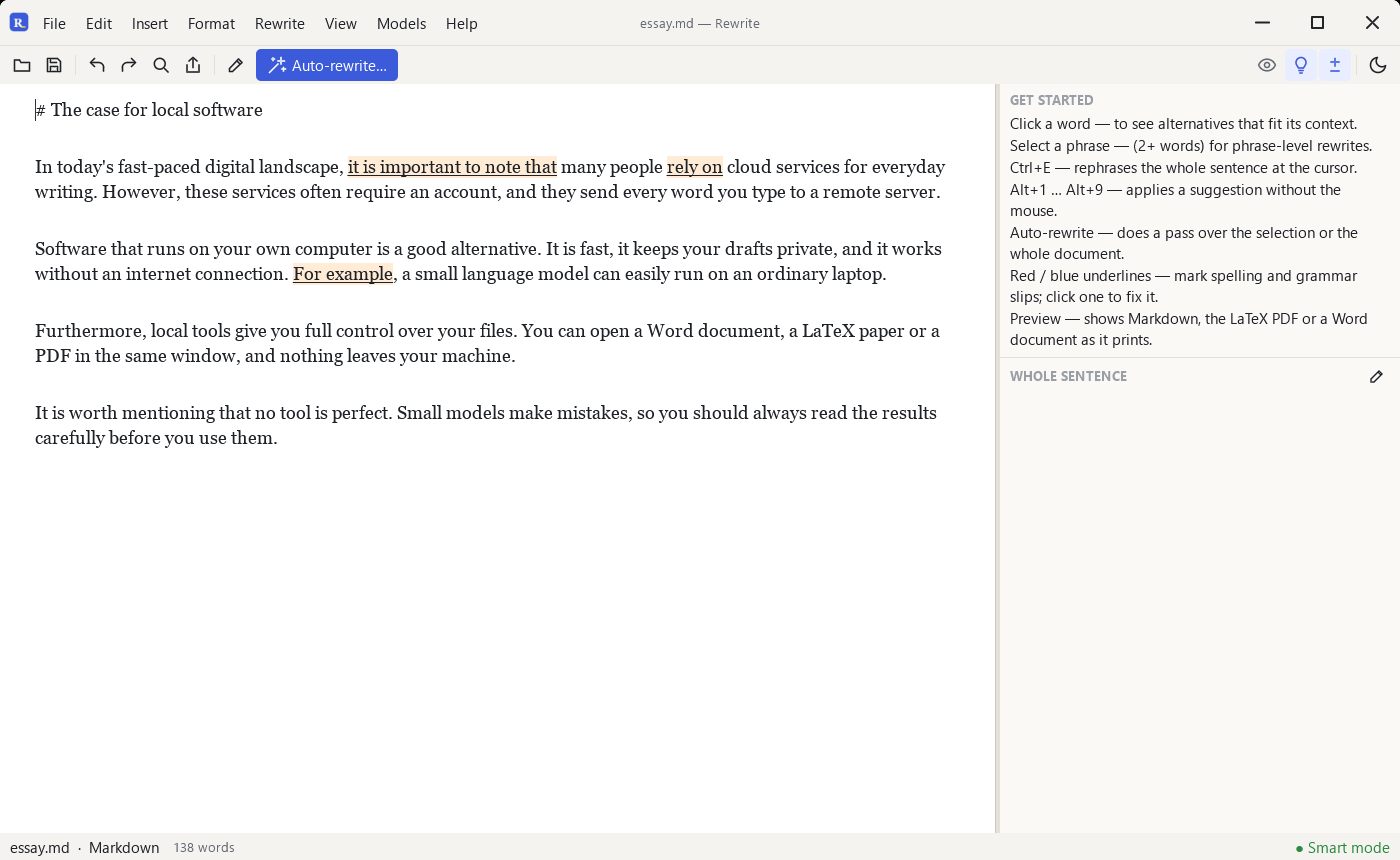
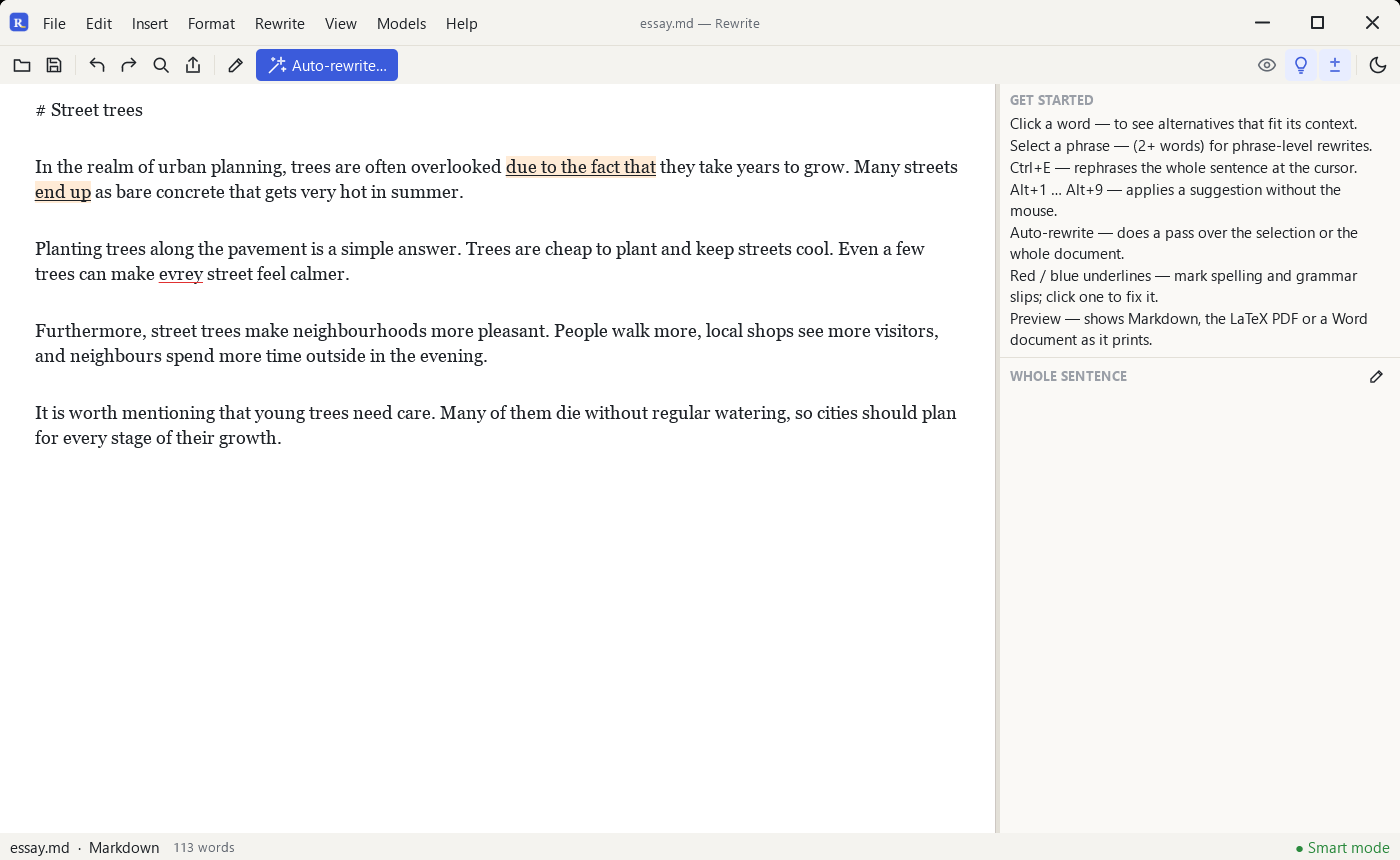
Website: new sample text in the screenshots and the editor example
The screenshots, the social image and the interactive example now use a short
piece about street trees, with every suggestion taken from the app.

diff --git a/site/site.js b/site/site.js
@@ -106,28 +106,29 @@ async function renderDownloads() {
   list.innerHTML = `<div class="hdr"><span></span><span>File</span><span>System</span><span style="text-align:right">Size</span><span></span></div>` + rows.join("");
 }
 
-// -- the editor example: every suggestion below is real output from Rewrite 2.0.1 ---------------------------
+// -- the editor example: every suggestion below is real output from Rewrite 2.0.1 (the auto-rewrite of this text
+// with the spelling slip fixed, Medium strength, all three kinds of change) ---------------------------------------
 
 const DOC = [
-  ["In today's fast-paced digital landscape, ", { k: "wordy", id: "p1", t: "it is important to note that" }, " many people rely on cloud services for everyday writing."],
-  [{ k: "sent", id: "s2", t: ["It is ", { k: "word", id: "w1", t: "fast" }, ", it keeps your drafts private, and it works without an internet connection."] },
-    " Even good tools make mistakes, so read ", { k: "spell", id: "sp", t: "evrey" }, " result carefully."],
+  ["In the realm of urban planning, trees are often overlooked ", { k: "wordy", id: "p1", t: "due to the fact that" }, " they take years to grow."],
+  [{ k: "sent", id: "s2", t: ["Trees are ", { k: "word", id: "w1", t: "cheap" }, " to plant and keep streets cool."] },
+    " Even a few trees can make ", { k: "spell", id: "sp", t: "evrey" }, " street feel calmer."],
 ];
 const SUG = {
-  p1: { head: "Or reword the whole phrase", what: "it is important to note that", alts: [["note that", 92, "phrase", "meaning 99%"], ["it is crucial to note that", 85, "synonym"], ["it is critical to note that", 85, "synonym", "meaning 100%"]] },
-  w1: { head: "Alternatives for", what: "fast", alts: [["quick", 80, "synonym", "hurried and brief"], ["speedy", 70, "related", "acting or moving quickly"], ["rapid", 40, "related"], ["quicker", 30, "synonym"]] },
-  sp: { head: "Spelling", what: "evrey", alts: [["every", 95, "spelling"]] },
+  p1: { head: "Or reword the whole phrase", what: "due to the fact that", alts: [["because", 94, "phrase", "meaning 97%"], ["as", 11, "phrase", "meaning 98%"]] },
+  w1: { head: "Alternatives for", what: "cheap", alts: [["inexpensive", 83, "synonym", "relatively low in price or charging low prices"], ["affordable", 43, "related"], ["low-cost", 29, "related"]] },
+  sp: { head: "Spelling", what: "evrey", alts: [["every", 77, "spelling"], ["even", 29, "spelling"], ["ever", 14, "spelling"]] },
   s2: { head: "Whole sentence", what: "", cards: [
-    ["Despite being offline and speedy, it ensures your drafts are confidential.", "meaning 93% · 73% reworded"],
-    ["It is speedy, it ensures your drafts are confidential, and operates offline.", "meaning 95% · 50% reworded"],
-    ["The service is speedy, safeguarding your drafts and operates offline.", "meaning 90% · 60% reworded"]] },
+    ["Planting trees is a cost-effective solution for keeping the streets cool.", "meaning 97% · 73% reworded"],
+    ["Trees are a cost-effective solution for keeping the streets cool.", "meaning 98% · 60% reworded"],
+    ["The cost of planting trees is low, and they are a practical solution for keeping the streets cool.", "meaning 94% · 78% reworded"]] },
 };
 const AUTO = [
-  "The fast-paced digital world places a significant amount of writing on cloud services, which is a must for many people.",
-  "Despite being offline and speedy, it ensures your drafts are confidential.",
+  "Trees are often neglected in urban planning because it takes years for them to grow.",
+  "Keeping streets cool is possible with inexpensive trees. Every street can be made more peaceful with the addition of a few trees.",
 ];
 const HINT = `<div class="head">Try it</div><p class="hint" style="margin-top:6px">
-  Click the <b>highlight</b>, the word <b>fast</b>, the <b>squiggle</b> or the <b>second sentence</b>.
+  Click the <b>highlight</b>, the word <b>cheap</b>, the <b>squiggle</b> or the <b>second sentence</b>.
   Or press <b>Auto-rewrite</b>.</p>`;
 
 let state;
@@ -142,7 +143,7 @@ function piece(x) {
 function drawDoc() {
   const doc = document.getElementById("doc");
   if (state.auto) {
-    doc.innerHTML = `<p><span class="changed">${esc(AUTO[0])}</span></p><p><span class="changed">${esc(AUTO[1])}</span> Even good tools make mistakes, so read every result carefully.</p>`;
+    doc.innerHTML = AUTO.map(t => `<p><span class="changed">${esc(t)}</span></p>`).join("");
     return;
   }
   doc.innerHTML = DOC.map(p => `<p>${p.map(piece).join("")}</p>`).join("");
